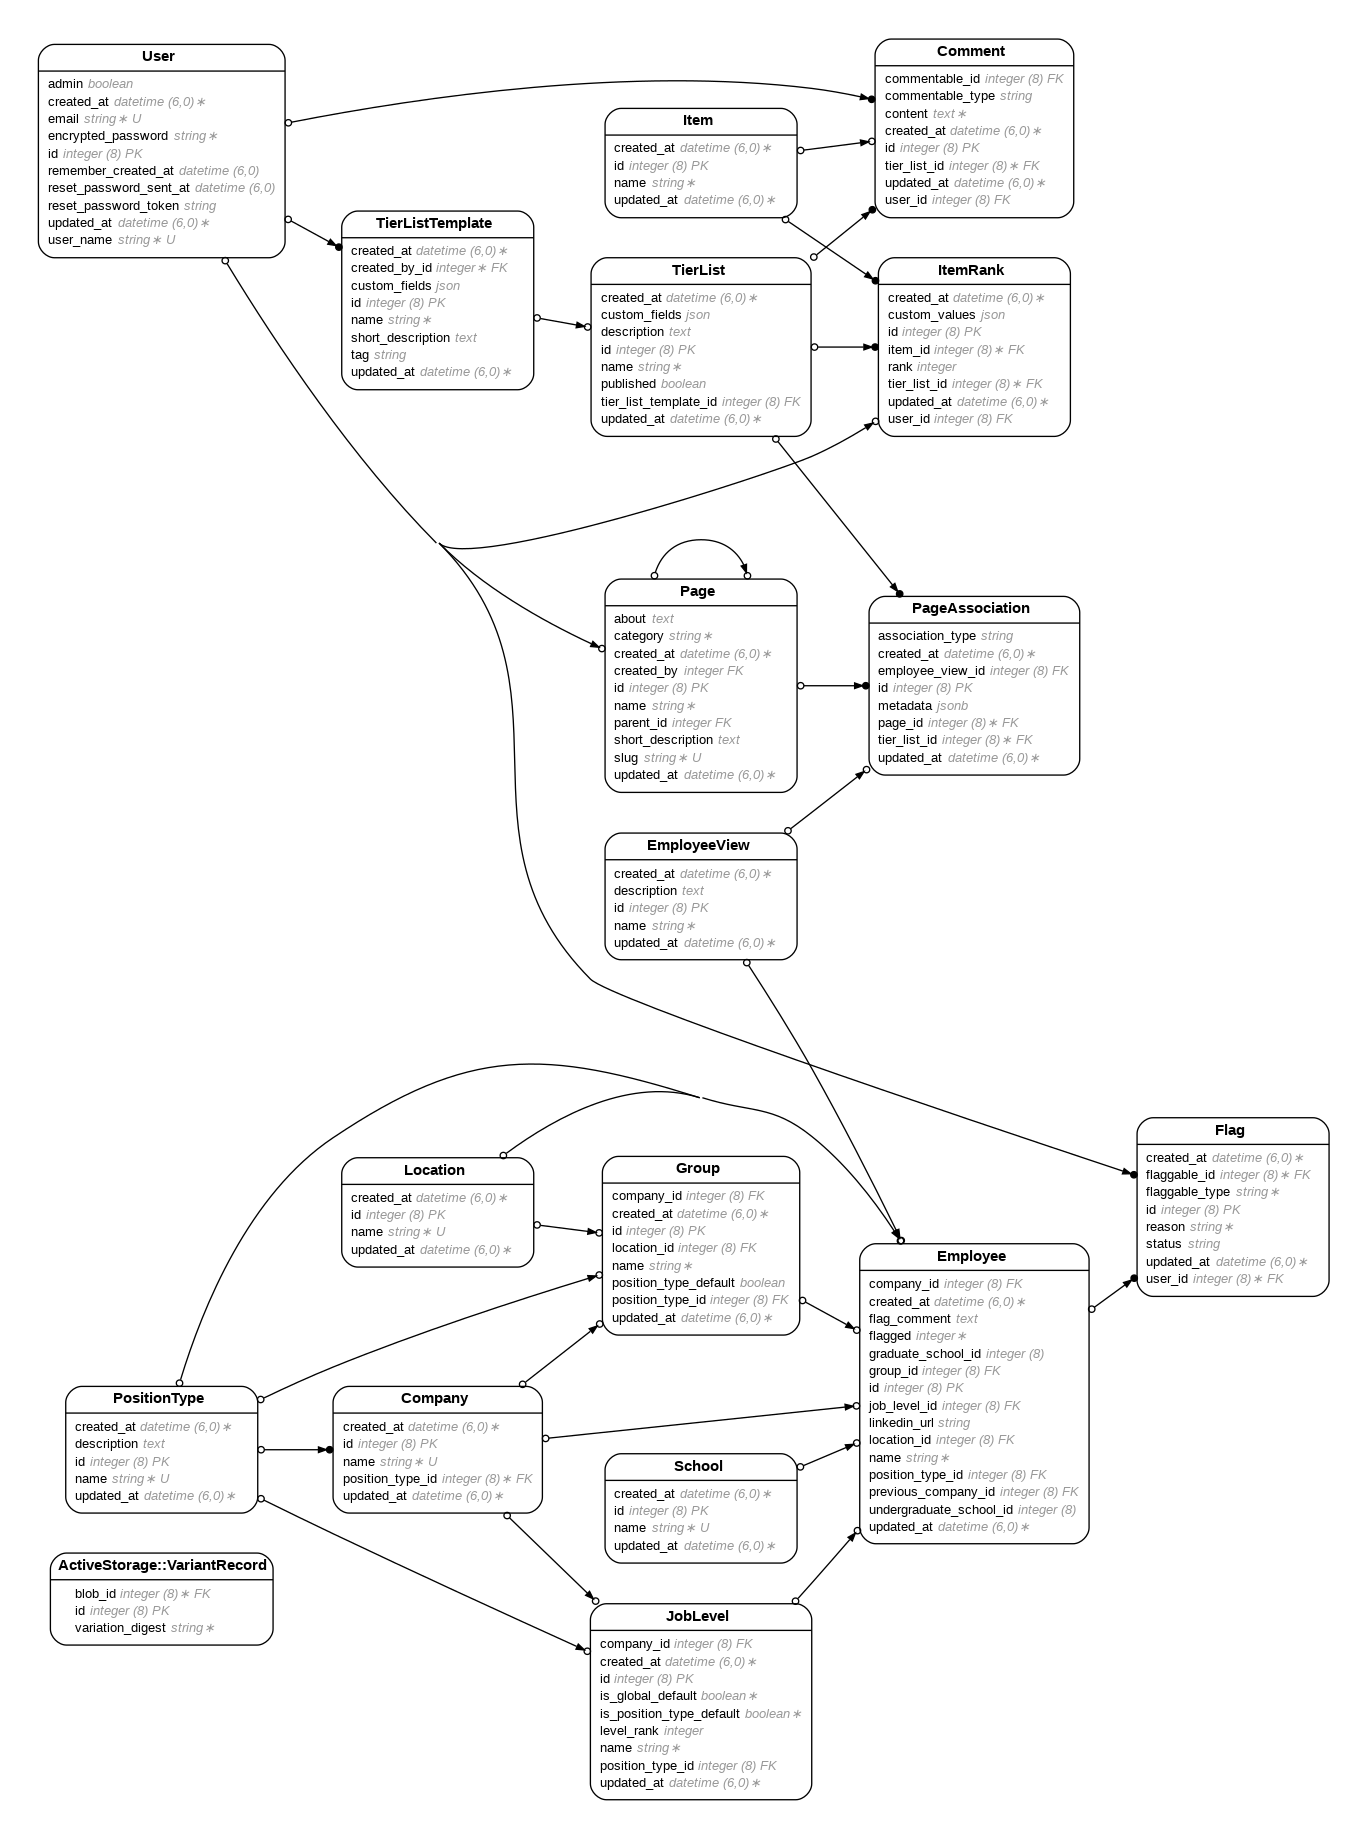
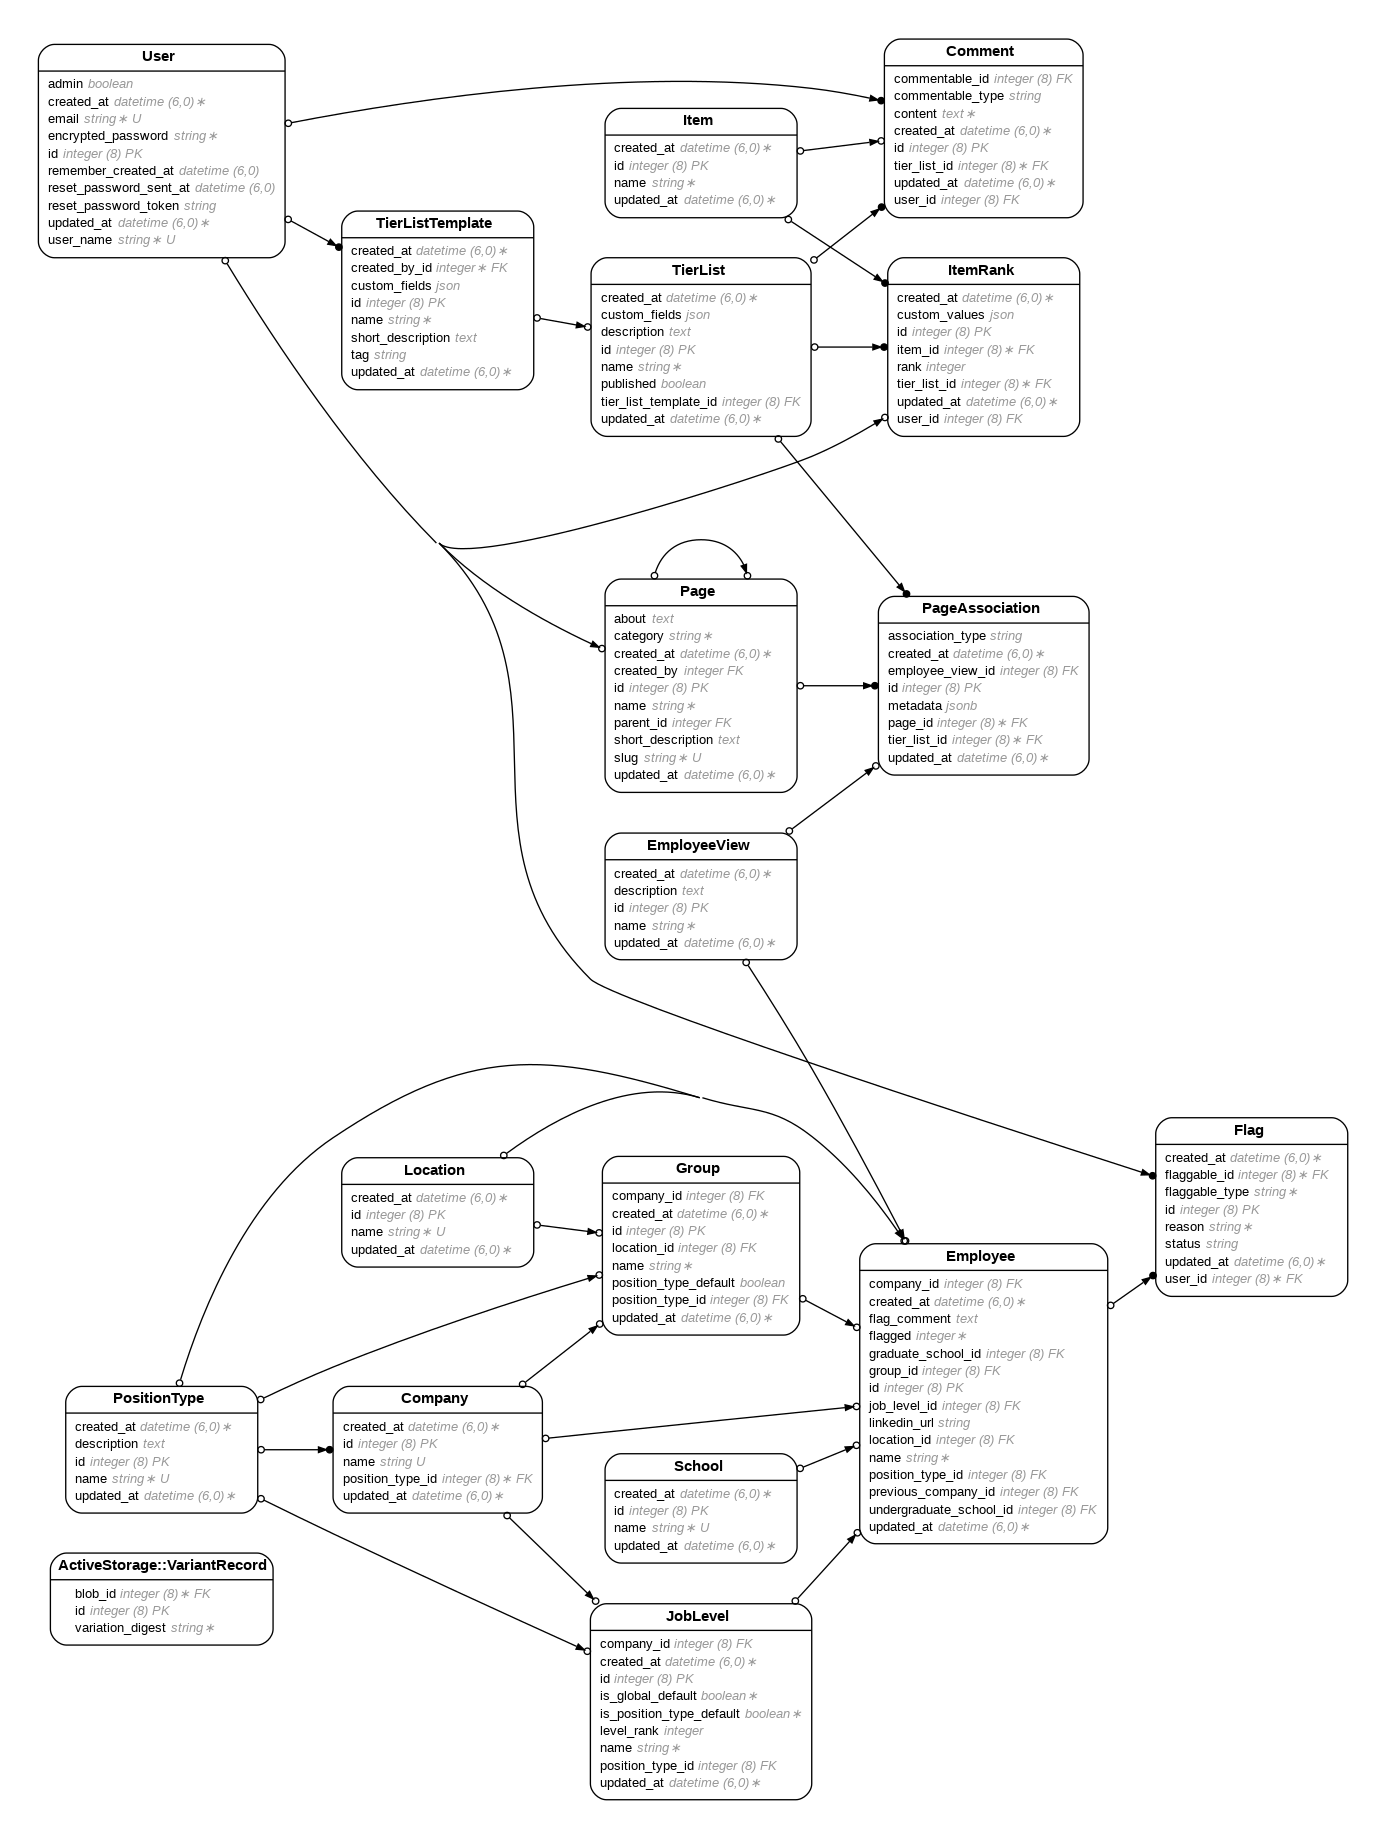
Added employee view join table

diff --git a/db/schema.rb b/db/schema.rb
@@ -10,7 +10,7 @@
 #
 # It's strongly recommended that you check this file into your version control system.
 
-ActiveRecord::Schema[7.1].define(version: 2025_01_08_212119) do
+ActiveRecord::Schema[7.1].define(version: 2025_01_09_153837) do
   # These are extensions that must be enabled in order to support this database
   enable_extension "plpgsql"
 
@@ -68,6 +68,15 @@ ActiveRecord::Schema[7.1].define(version: 2025_01_08_212119) do
     t.text "description"
     t.datetime "created_at", null: false
     t.datetime "updated_at", null: false
+  end
+
+  create_table "employee_views_employees", force: :cascade do |t|
+    t.bigint "employee_id", null: false
+    t.bigint "employee_view_id", null: false
+    t.datetime "created_at", null: false
+    t.datetime "updated_at", null: false
+    t.index ["employee_id"], name: "index_employee_views_employees_on_employee_id"
+    t.index ["employee_view_id"], name: "index_employee_views_employees_on_employee_view_id"
   end
 
   create_table "employees", force: :cascade do |t|
@@ -246,6 +255,8 @@ ActiveRecord::Schema[7.1].define(version: 2025_01_08_212119) do
   add_foreign_key "comments", "tier_lists"
   add_foreign_key "comments", "users"
   add_foreign_key "companies", "position_types"
+  add_foreign_key "employee_views_employees", "employee_views"
+  add_foreign_key "employee_views_employees", "employees"
   add_foreign_key "employees", "companies"
   add_foreign_key "employees", "companies", column: "previous_company_id"
   add_foreign_key "employees", "groups"

diff --git a/app/controllers/admin/employees_controller.rb b/app/controllers/admin/employees_controller.rb
@@ -190,11 +190,12 @@ class Admin::EmployeesController < ApplicationController
   # Fetch Job Levels based on Company/Position Type/Global Default
   def fetch_job_levels(company_id, position_type_id)
     if JobLevel.where(company_id: company_id).exists?
-      JobLevel.where(company_id: company_id)
+      JobLevel.where(company_id: company_id).order(:level_rank) # Order by level_rank
     elsif JobLevel.where(position_type_id: position_type_id, is_position_type_default: true).exists?
-      JobLevel.where(position_type_id: position_type_id, is_position_type_default: true)
+      JobLevel.where(position_type_id: position_type_id, is_position_type_default: true).order(:level_rank) # Order by level_rank
     else
-      JobLevel.where(is_global_default: true)
+      JobLevel.where(is_global_default: true).order(:level_rank) # Order by level_rank
     end
   end
+  
 end

diff --git a/app/models/employee.rb b/app/models/employee.rb
@@ -51,6 +51,8 @@ class Employee < ApplicationRecord
   belongs_to :undergraduate_school, class_name: 'School', optional: true
   belongs_to :graduate_school, class_name: 'School', optional: true
 
+  has_and_belongs_to_many :employee_views, join_table: 'employee_views_employees'
+
   has_many :flags, as: :flaggable, dependent: :destroy
 
   validates :name, presence: true

diff --git a/db/migrate/20250109153837_create_employee_views_employees.rb b/db/migrate/20250109153837_create_employee_views_employees.rb
@@ -1,0 +1,10 @@
+class CreateEmployeeViewsEmployees < ActiveRecord::Migration[7.1]
+  def change
+    create_table :employee_views_employees do |t|
+      t.references :employee, null: false, foreign_key: true
+      t.references :employee_view, null: false, foreign_key: true
+
+      t.timestamps
+    end
+  end
+end

diff --git a/app/models/employee_view.rb b/app/models/employee_view.rb
@@ -13,5 +13,7 @@ class EmployeeView < ApplicationRecord
   has_many :page_associations, dependent: :destroy
   has_many :pages, through: :page_associations
 
+  has_and_belongs_to_many :employees, join_table: 'employee_views_employees'
+
   validates :name, presence: true
 end
